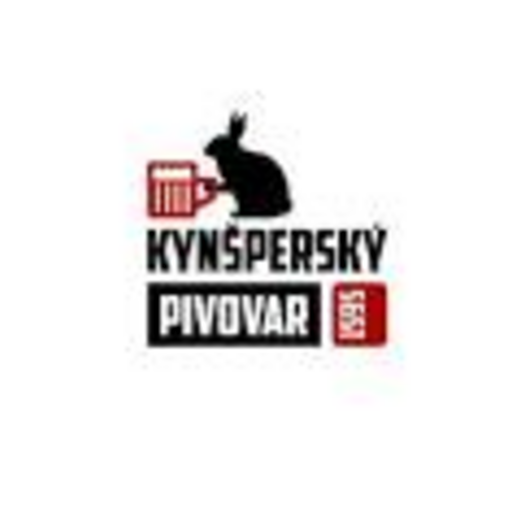
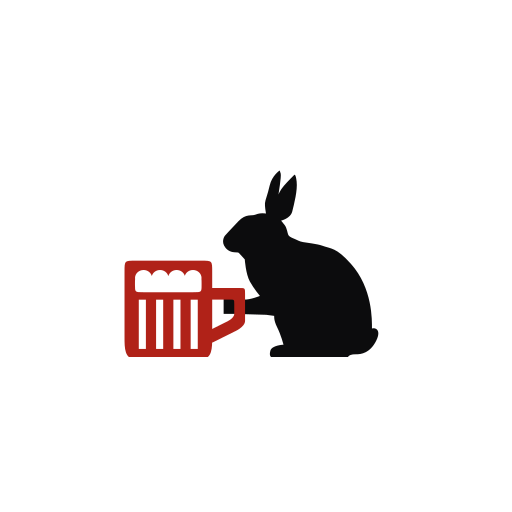
Ostrý zajíc místo rozmazaného: ikony a úvodní obrazovka z vektoru
Z provozu: „když poprvé načítá aplikace na telefonu, je tam ten rozmazanej
zajíc v černým čtverci."

Byla to chyba v souborech, ne v kódu, a proto si jí nikdo nevšiml:
  • icon-192.png a icon-512.png byl JEDEN A TENTÝŽ soubor 420×322 — ani
    jedna z deklarovaných velikostí a k tomu ne čtverec, takže ho Android
    natáhl na 512×512 a doplnil na čtverec,
  • icon-maskable-512.png sice 512×512 měl, ale zvětšený z něčeho malého;
    nápis „KYNŠPERSKÝ PIVOVAR" v něm byl rozpitý,
  • ikona aplikace v APK i úvodní obrazovka byly pořád VÝCHOZÍ LOGO
    CAPACITORU (modrý křížek), ne pivovar.

V repozitáři přitom celou dobu ležel vektor public/logo-zajic-znak.svg.
Ten je teď jedinou předlohou a scripts/gen-icons.mjs z něj vyrobí všechno:
PWA ikony, ikonu aplikace pro pět hustot displeje i úvodní obrazovku na
výšku a na šířku. Změna loga = jedno spuštění skriptu.

Maskable ikona dostala znak jen na 58 % šířky: Android ji ořezává do
kruhu a při plné šířce by zajícovi uřízlo uši. Rasterizuje se při 1200 DPI,
protože vektor má viewBox 130×88 — při výchozích 72 DPI by z něj vyšel
obrázek menší než cíl a zvětšoval by se, tedy přesně ta chyba, která se
opravuje.

Původní generátor kreslil monogram „P" po pixelech vlastním PNG
enkodérem; nahrazen sharpem, který v projektu už je.

Test čte rozměry z hlavičky PNG (bez knihovny) a hlídá, že ikony mají
velikost, kterou manifest slibuje, a že 192 a 512 nejsou tentýž soubor.

Claude-Session: https://claude.ai/code/session_017xoc9BKCE1ShBKedNcP4A8

Changed region(s): [[0.2188, 0.2188, 0.7812, 0.7188]]

diff --git a/src/lib/ikonyAplikace.test.ts b/src/lib/ikonyAplikace.test.ts
@@ -1,0 +1,71 @@
+// 🐇 Ikony aplikace musí odpovídat tomu, co slibuje manifest.
+// ---------------------------------------------------------------------------
+// Z provozu 18. 9. 2026: „když poprvé načítá aplikace na telefonu, je tam ten
+// rozmazanej zajíc v černým čtverci."
+//
+// Příčina byla v souborech, ne v kódu, a proto si jí nikdo nevšiml:
+// icon-192.png a icon-512.png byl JEDEN A TENTÝŽ soubor 420×322 — ani jedna
+// z deklarovaných velikostí a k tomu ne čtverec. Android si ho natáhl na
+// 512×512 a doplnil na čtverec. Maskable ikona sice 512×512 měla, ale byla
+// zvětšená z malého obrázku.
+//
+// Rozměry PNG jdou přečíst z hlavičky (IHDR, bajty 16–24) bez jakékoli
+// knihovny, takže tenhle test nic nestojí a chytí to dřív než telefon.
+import { describe, it, expect } from 'vitest';
+import { readFileSync } from 'node:fs';
+
+/** Šířka a výška PNG z hlavičky IHDR. */
+function rozmery(cesta: string): { w: number; h: number } {
+  const d = readFileSync(cesta);
+  expect(d.subarray(1, 4).toString('ascii'), `${cesta} není PNG`).toBe('PNG');
+  return { w: d.readUInt32BE(16), h: d.readUInt32BE(20) };
+}
+
+const MANIFEST = JSON.parse(readFileSync('public/manifest.webmanifest', 'utf8')) as {
+  icons: { src: string; sizes: string; purpose?: string }[];
+};
+
+describe('ikony v manifestu mají slíbenou velikost', () => {
+  for (const ikona of MANIFEST.icons) {
+    it(`${ikona.src} je ${ikona.sizes}`, () => {
+      const cesta = `public/${ikona.src.replace('./', '')}`;
+      const [w, h] = ikona.sizes.split('x').map(Number);
+      expect(rozmery(cesta)).toEqual({ w, h });
+    });
+  }
+
+  it('192 a 512 nejsou tentýž soubor', () => {
+    // Přesně tohle bylo špatně: jeden soubor ve dvou rolích.
+    const a = readFileSync('public/icon-192.png');
+    const b = readFileSync('public/icon-512.png');
+    expect(a.equals(b), 'icon-192.png a icon-512.png mají stejný obsah').toBe(false);
+  });
+});
+
+describe('ikona aplikace a úvodní obrazovka nejsou výchozí Capacitor', () => {
+  // Modrý křížek Capacitoru je malý soubor s pár barvami. Skutečný znak
+  // pivovaru má výrazně víc dat — hrubé, ale spolehlivé rozlišení, které
+  // nepotřebuje dekódovat obrázek.
+  const podezrele: string[] = [];
+  for (const cesta of [
+    'android/app/src/main/res/mipmap-xxxhdpi/ic_launcher_foreground.png',
+    'android/app/src/main/res/drawable-port-xxxhdpi/splash.png',
+  ]) {
+    const { w, h } = rozmery(cesta);
+    if (w < 100 || h < 100) podezrele.push(`${cesta} je moc malá (${w}x${h})`);
+  }
+
+  it('mají rozumné rozměry', () => {
+    expect(podezrele).toEqual([]);
+  });
+
+  it('generátor bere jedinou předlohu — vektor', () => {
+    const skript = readFileSync('scripts/gen-icons.mjs', 'utf8');
+    expect(skript).toMatch(/logo-zajic-znak\.svg/);
+    // Dřívější generátor si kreslil obrázek po pixelech a vlastním kódem
+    // skládal PNG — s pivovarem neměl nic společného. Hledá se ten kód, ne
+    // slovo v komentáři: napoprvé si tenhle test sáhl na popis té chyby
+    // v záhlaví skriptu a spadl sám na sobě.
+    expect(skript).not.toMatch(/function makePng|function deflateStore/);
+  });
+});
